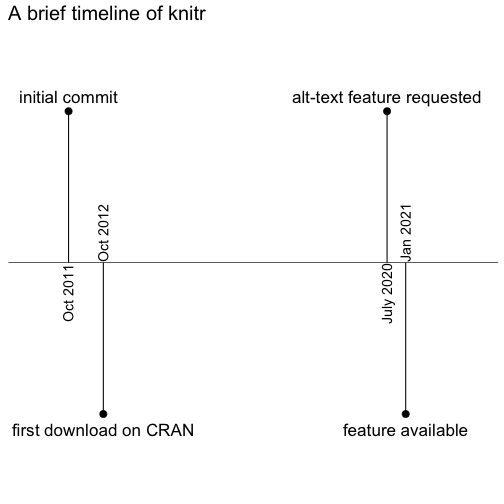
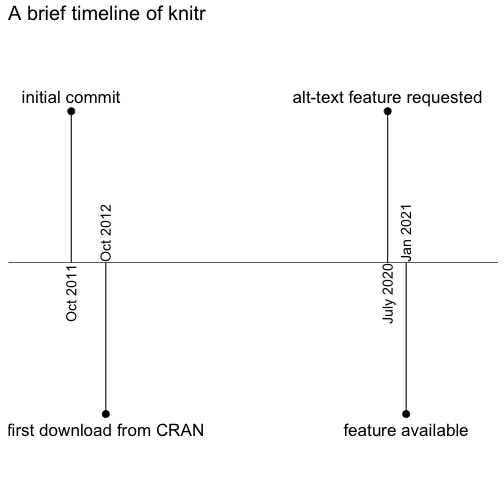
fix typos

Changed region(s): [[0.5655, 0.1786, 0.9821, 0.8631], [0.0, 0.3869, 0.4167, 0.8631], [0.0298, 0.1786, 0.2381, 0.6548]]

diff --git a/index.html b/index.html
@@ -259,7 +259,7 @@ Teaching Accessibility
 class: center
 
 
-&lt;img src="index_files/figure-html/unnamed-chunk-3-1.png" title="A timeline titled brief history of knitr. That points out that the initial commit was in October 2011, first download on CRAN was in October 2012, alt-text feature was requested in July 2020, feature was made available in January 2021" alt="A timeline titled brief history of knitr. That points out that the initial commit was in October 2011, first download on CRAN was in October 2012, alt-text feature was requested in July 2020, feature was made available in January 2021" style="display: block; margin: auto;" /&gt;
+&lt;img src="index_files/figure-html/unnamed-chunk-3-1.png" title="A timeline titled brief history of knitr. That points out that the initial commit was in October 2011, first download from CRAN was in October 2012, alt-text feature was requested in July 2020, feature was made available in January 2021" alt="A timeline titled brief history of knitr. That points out that the initial commit was in October 2011, first download from CRAN was in October 2012, alt-text feature was requested in July 2020, feature was made available in January 2021" style="display: block; margin: auto;" /&gt;
 
 
 
@@ -463,7 +463,7 @@ class: middle
 We can verbalize data via alternate text.
 
 &lt;div class="figure" style="text-align: center"&gt;
-&lt;img src="index_files/figure-html/unnamed-chunk-12-1.png" alt="The scatterplot shows speed ranging from about 0 to 25 on the x-axis and dist ranging from 0 to 120 on the y-axis. There is a moderate positive linear relationship."  /&gt;
+&lt;img src="index_files/figure-html/unnamed-chunk-12-1.png" alt="The scatterplot shows speed ranging from about 0 to 25 mph on the x-axis and dist ranging from 0 to 120 ft on the y-axis. There is a moderate positive linear relationship."  /&gt;
 &lt;p class="caption"&gt;The speed of cars (mph) and the distances (ft) taken to stop&lt;/p&gt;
 &lt;/div&gt;
 
@@ -473,8 +473,8 @@ class: middle
 
 ````markdown
 ```{r fig.cap="The speed of cars (mph) and the distances (ft) taken to stop", 
-fig.alt="The scatterplot shows speed ranging from about 0 to 25 on the 
-x-axis and dist ranging from 0 to 120 on the y-axis. There is a moderate 
+fig.alt="The scatterplot shows speed ranging from about 0 to 25 mph on the 
+x-axis and dist ranging from 0 to 120 ft on the y-axis. There is a moderate 
 positive linear relationship."}
 plot(cars)
 ```
@@ -604,7 +604,7 @@ class: middle
 
 ## Data Tactualization
 
-Data tactulization refers to making data visualization in a form so that it can be touchable by fingers. 
+Data tactulization refers to making data visualization in a form so that it can be touchable. 
 The video shows printing of a tactile boxplot.
 
 
@@ -798,19 +798,6 @@ if (window.HTMLWidgets) slideshow.on('afterShowSlide', function (slide) {
     deleted = true;
   });
 })();
-// add `data-at-shortcutkeys` attribute to <body> to resolve conflicts with JAWS
-// screen reader (see PR #262)
-(function(d) {
-  let res = {};
-  d.querySelectorAll('.remark-help-content table tr').forEach(tr => {
-    const t = tr.querySelector('td:nth-child(2)').innerText;
-    tr.querySelectorAll('td:first-child .key').forEach(key => {
-      const k = key.innerText;
-      if (/^[a-z]$/.test(k)) res[k] = t;  // must be a single letter (key)
-    });
-  });
-  d.body.setAttribute('data-at-shortcutkeys', JSON.stringify(res));
-})(document);
 (function() {
   "use strict"
   // Replace <script> tags in slides area to make them executable
